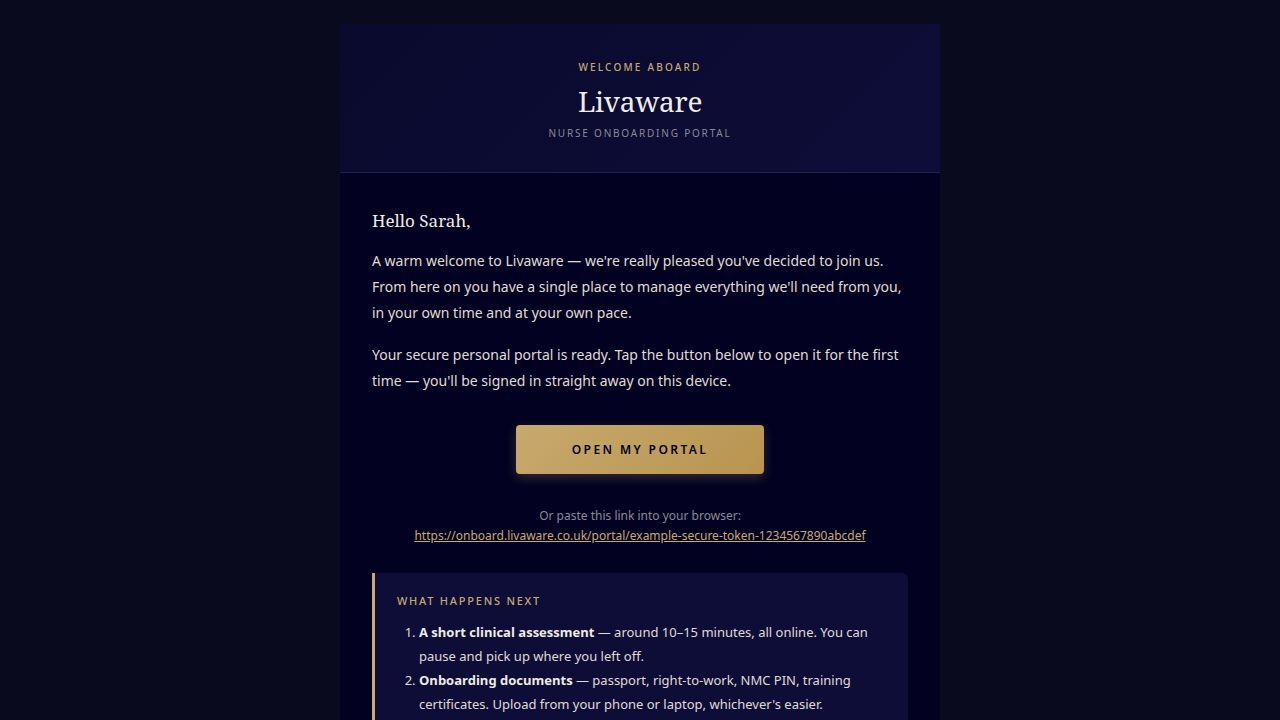
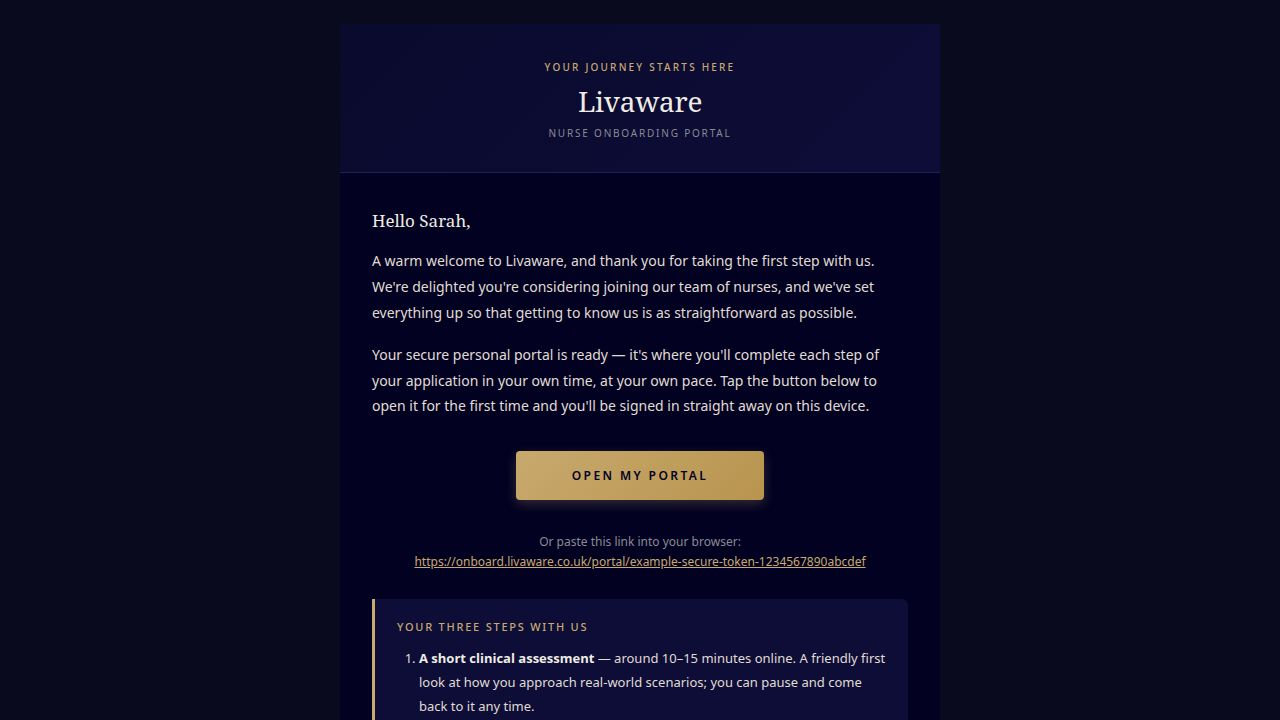
Update welcome email to invite applicants to start their journey
Refactors the applicant welcome email content and subject line to be more inviting and relevant to new applicants. Changes include updating the subject from "Welcome to Livaware — Let's get started" to "Welcome to Livaware — your journey starts here", modifying introductory and descriptive text, and renaming the "What happens next" section to "Your three steps with us" in `applicant-welcome-email.html` and `previews/applicant-welcome-email.html`. Also updates metadata in `.agents/agent_assets_metadata.toml` and the subject constant in `server/outlook.ts`.

Replit-Commit-Author: Agent
Replit-Commit-Session-Id: cdee091a-e8eb-4f16-89b9-73aae7a58ad4
Replit-Commit-Checkpoint-Type: full_checkpoint
Replit-Commit-Event-Id: f6996b04-adf5-4f38-a420-93e1a7978d46
Replit-Commit-Screenshot-Url: https://storage.googleapis.com/screenshot-production-us-central1/d0717b15-65b5-4ce7-8803-99b7f112c688/cdee091a-e8eb-4f16-89b9-73aae7a58ad4/YIiWA8g
Replit-Helium-Checkpoint-Created: true

diff --git a/client/public/applicant-welcome-email.html b/client/public/applicant-welcome-email.html
@@ -1,67 +1,52 @@
 <!DOCTYPE html><html><head><meta charset="utf-8"><title>Welcome to Livaware</title></head><body style="margin:0;padding:24px;background:#0a0a1f;">
       <div style="font-family: 'Be Vietnam Pro', 'Segoe UI', Arial, sans-serif; max-width: 600px; margin: 0 auto; background: #020121;">
-
         <div style="background: linear-gradient(135deg, #0a0a2e 0%, #0d0d38 100%); padding: 36px 32px 32px; text-align: center; border-bottom: 1px solid #1e1e5a;">
-          <p style="color: #C8A96E; font-size: 10px; letter-spacing: 0.22em; text-transform: uppercase; margin: 0 0 8px; font-weight: 500;">Welcome aboard</p>
+          <p style="color: #C8A96E; font-size: 10px; letter-spacing: 0.22em; text-transform: uppercase; margin: 0 0 8px; font-weight: 500;">Your journey starts here</p>
           <h1 style="color: #F0ECE4; font-family: 'Georgia', serif; font-size: 28px; font-weight: 400; margin: 0 0 6px; letter-spacing: -0.01em;">Livaware</h1>
           <p style="color: #8A8A94; font-size: 10px; letter-spacing: 0.18em; text-transform: uppercase; margin: 0;">Nurse Onboarding Portal</p>
         </div>
-
         <div style="padding: 36px 32px 28px;">
           <p style="font-size: 17px; color: #F0ECE4; margin: 0 0 16px; font-family: 'Georgia', serif; font-weight: 400;">Hello Sarah,</p>
-
           <p style="font-size: 14px; color: #E0DCD4; line-height: 1.85; margin: 0 0 16px;">
-            A warm welcome to Livaware — we're really pleased you've decided to join us. From here on you have a single place to manage everything we'll need from you, in your own time and at your own pace.
+            A warm welcome to Livaware, and thank you for taking the first step with us. We're delighted you're considering joining our team of nurses, and we've set everything up so that getting to know us is as straightforward as possible.
           </p>
-
           <p style="font-size: 14px; color: #E0DCD4; line-height: 1.85; margin: 0 0 24px;">
-            Your secure personal portal is ready. Tap the button below to open it for the first time — you'll be signed in straight away on this device.
+            Your secure personal portal is ready &mdash; it's where you'll complete each step of your application in your own time, at your own pace. Tap the button below to open it for the first time and you'll be signed in straight away on this device.
           </p>
-
           <div style="text-align: center; margin: 32px 0;">
             <a href="https://onboard.livaware.co.uk/portal/example-secure-token-1234567890abcdef" style="display: inline-block; background-color: #C8A96E; background-image: linear-gradient(135deg, #C8A96E, #b8944e); color: #020121; text-decoration: none; padding: 16px 56px; border-radius: 4px; font-size: 12px; font-weight: 600; letter-spacing: 0.20em; text-transform: uppercase; box-shadow: 0 4px 12px rgba(200, 169, 110, 0.25);">
               Open My Portal
             </a>
           </div>
-
           <p style="font-size: 12px; color: #8A8A94; line-height: 1.6; word-break: break-all; text-align: center; margin: 0 0 28px;">
             Or paste this link into your browser:<br />
             <a href="https://onboard.livaware.co.uk/portal/example-secure-token-1234567890abcdef" style="color: #C8A96E; text-decoration: underline;">https://onboard.livaware.co.uk/portal/example-secure-token-1234567890abcdef</a>
           </p>
-
           <div style="background: #0d0d38; border-left: 3px solid #C8A96E; padding: 20px 22px; border-radius: 0 6px 6px 0; margin: 0 0 24px;">
-            <p style="font-size: 11px; color: #C8A96E; margin: 0 0 12px; font-weight: 500; letter-spacing: 0.16em; text-transform: uppercase;">What happens next</p>
+            <p style="font-size: 11px; color: #C8A96E; margin: 0 0 12px; font-weight: 500; letter-spacing: 0.16em; text-transform: uppercase;">Your three steps with us</p>
             <ol style="font-size: 13px; color: #E0DCD4; line-height: 1.85; margin: 0; padding-left: 22px;">
-              <li><strong style="color: #F0ECE4;">A short clinical assessment</strong> — around 10–15 minutes, all online. You can pause and pick up where you left off.</li>
-              <li><strong style="color: #F0ECE4;">Onboarding documents</strong> — passport, right-to-work, NMC PIN, training certificates. Upload from your phone or laptop, whichever's easier.</li>
-              <li><strong style="color: #F0ECE4;">Skills Arcade</strong> — short interactive scenarios so you can show us how you think on the floor.</li>
+              <li><strong style="color: #F0ECE4;">A short clinical assessment</strong> &mdash; around 10&ndash;15 minutes online. A friendly first look at how you approach real-world scenarios; you can pause and come back to it any time.</li>
+              <li><strong style="color: #F0ECE4;">Share your documents</strong> &mdash; passport, right-to-work, NMC PIN and any training certificates. Upload from your phone or laptop, whichever's easier.</li>
+              <li><strong style="color: #F0ECE4;">Skills Arcade</strong> &mdash; short interactive scenarios so you can show us how you think on the floor, and we get a sense of where you'll shine.</li>
             </ol>
           </div>
-
           <div style="background: rgba(200, 169, 110, 0.06); border: 1px solid rgba(200, 169, 110, 0.15); padding: 16px 20px; border-radius: 6px; margin: 0 0 24px;">
             <p style="font-size: 12px; color: #C8A96E; margin: 0 0 6px; font-weight: 500; letter-spacing: 0.14em; text-transform: uppercase;">Good to know</p>
             <p style="font-size: 13px; color: #E0DCD4; line-height: 1.7; margin: 0;">
-              This link is personal to you — please keep it private. After this first sign-in, you'll come back any time using your email address and a 6-digit code we send you, so you can pick up from any device. For reference, this initial invite link expires on <strong style="color: #C8A96E;">17 June 2026</strong>.
+              This link is personal to you &mdash; please keep it private. After this first sign-in, you'll come back any time using your email address and a 6-digit code we send you, so you can pick up from any device. For reference, this initial invite link expires on <strong style="color: #C8A96E;">17 June 2026</strong>.
             </p>
           </div>
-
           <p style="font-size: 13px; color: #B0AAA0; line-height: 1.7; margin: 0 0 8px;">
             If anything's unclear or you hit a snag along the way, just reply to this email and a real person on our onboarding team will get back to you.
           </p>
-
           <p style="font-size: 14px; color: #E0DCD4; margin-top: 28px; line-height: 1.7;">
-            Looking forward to working with you,<br />
+            Looking forward to getting to know you,<br />
             <strong style="color: #F0ECE4;">The Livaware Onboarding Team</strong>
           </p>
         </div>
-
         <div style="background: #0a0a2e; padding: 18px 32px; text-align: center; border-top: 1px solid #1e1e5a;">
-          <p style="font-size: 11px; color: #8A8A94; margin: 0;">
-            Livaware Ltd — Secure Nurse Onboarding &middot; CQC Regulation 19 / Schedule 3 Compliant
-          </p>
-          <p style="font-size: 11px; color: #8A8A94; margin: 4px 0 0;">
-            Replies to this email reach our onboarding team directly.
-          </p>
+          <p style="font-size: 11px; color: #8A8A94; margin: 0;">Livaware Ltd &mdash; Secure Nurse Onboarding &middot; CQC Regulation 19 / Schedule 3 Compliant</p>
+          <p style="font-size: 11px; color: #8A8A94; margin: 4px 0 0;">Replies to this email reach our onboarding team directly.</p>
         </div>
       </div>
   </body></html>

diff --git a/previews/applicant-welcome-email.html b/previews/applicant-welcome-email.html
@@ -1,67 +1,52 @@
 <!DOCTYPE html><html><head><meta charset="utf-8"><title>Welcome to Livaware</title></head><body style="margin:0;padding:24px;background:#0a0a1f;">
       <div style="font-family: 'Be Vietnam Pro', 'Segoe UI', Arial, sans-serif; max-width: 600px; margin: 0 auto; background: #020121;">
-
         <div style="background: linear-gradient(135deg, #0a0a2e 0%, #0d0d38 100%); padding: 36px 32px 32px; text-align: center; border-bottom: 1px solid #1e1e5a;">
-          <p style="color: #C8A96E; font-size: 10px; letter-spacing: 0.22em; text-transform: uppercase; margin: 0 0 8px; font-weight: 500;">Welcome aboard</p>
+          <p style="color: #C8A96E; font-size: 10px; letter-spacing: 0.22em; text-transform: uppercase; margin: 0 0 8px; font-weight: 500;">Your journey starts here</p>
           <h1 style="color: #F0ECE4; font-family: 'Georgia', serif; font-size: 28px; font-weight: 400; margin: 0 0 6px; letter-spacing: -0.01em;">Livaware</h1>
           <p style="color: #8A8A94; font-size: 10px; letter-spacing: 0.18em; text-transform: uppercase; margin: 0;">Nurse Onboarding Portal</p>
         </div>
-
         <div style="padding: 36px 32px 28px;">
           <p style="font-size: 17px; color: #F0ECE4; margin: 0 0 16px; font-family: 'Georgia', serif; font-weight: 400;">Hello Sarah,</p>
-
           <p style="font-size: 14px; color: #E0DCD4; line-height: 1.85; margin: 0 0 16px;">
-            A warm welcome to Livaware — we're really pleased you've decided to join us. From here on you have a single place to manage everything we'll need from you, in your own time and at your own pace.
+            A warm welcome to Livaware, and thank you for taking the first step with us. We're delighted you're considering joining our team of nurses, and we've set everything up so that getting to know us is as straightforward as possible.
           </p>
-
           <p style="font-size: 14px; color: #E0DCD4; line-height: 1.85; margin: 0 0 24px;">
-            Your secure personal portal is ready. Tap the button below to open it for the first time — you'll be signed in straight away on this device.
+            Your secure personal portal is ready &mdash; it's where you'll complete each step of your application in your own time, at your own pace. Tap the button below to open it for the first time and you'll be signed in straight away on this device.
           </p>
-
           <div style="text-align: center; margin: 32px 0;">
             <a href="https://onboard.livaware.co.uk/portal/example-secure-token-1234567890abcdef" style="display: inline-block; background-color: #C8A96E; background-image: linear-gradient(135deg, #C8A96E, #b8944e); color: #020121; text-decoration: none; padding: 16px 56px; border-radius: 4px; font-size: 12px; font-weight: 600; letter-spacing: 0.20em; text-transform: uppercase; box-shadow: 0 4px 12px rgba(200, 169, 110, 0.25);">
               Open My Portal
             </a>
           </div>
-
           <p style="font-size: 12px; color: #8A8A94; line-height: 1.6; word-break: break-all; text-align: center; margin: 0 0 28px;">
             Or paste this link into your browser:<br />
             <a href="https://onboard.livaware.co.uk/portal/example-secure-token-1234567890abcdef" style="color: #C8A96E; text-decoration: underline;">https://onboard.livaware.co.uk/portal/example-secure-token-1234567890abcdef</a>
           </p>
-
           <div style="background: #0d0d38; border-left: 3px solid #C8A96E; padding: 20px 22px; border-radius: 0 6px 6px 0; margin: 0 0 24px;">
-            <p style="font-size: 11px; color: #C8A96E; margin: 0 0 12px; font-weight: 500; letter-spacing: 0.16em; text-transform: uppercase;">What happens next</p>
+            <p style="font-size: 11px; color: #C8A96E; margin: 0 0 12px; font-weight: 500; letter-spacing: 0.16em; text-transform: uppercase;">Your three steps with us</p>
             <ol style="font-size: 13px; color: #E0DCD4; line-height: 1.85; margin: 0; padding-left: 22px;">
-              <li><strong style="color: #F0ECE4;">A short clinical assessment</strong> — around 10–15 minutes, all online. You can pause and pick up where you left off.</li>
-              <li><strong style="color: #F0ECE4;">Onboarding documents</strong> — passport, right-to-work, NMC PIN, training certificates. Upload from your phone or laptop, whichever's easier.</li>
-              <li><strong style="color: #F0ECE4;">Skills Arcade</strong> — short interactive scenarios so you can show us how you think on the floor.</li>
+              <li><strong style="color: #F0ECE4;">A short clinical assessment</strong> &mdash; around 10&ndash;15 minutes online. A friendly first look at how you approach real-world scenarios; you can pause and come back to it any time.</li>
+              <li><strong style="color: #F0ECE4;">Share your documents</strong> &mdash; passport, right-to-work, NMC PIN and any training certificates. Upload from your phone or laptop, whichever's easier.</li>
+              <li><strong style="color: #F0ECE4;">Skills Arcade</strong> &mdash; short interactive scenarios so you can show us how you think on the floor, and we get a sense of where you'll shine.</li>
             </ol>
           </div>
-
           <div style="background: rgba(200, 169, 110, 0.06); border: 1px solid rgba(200, 169, 110, 0.15); padding: 16px 20px; border-radius: 6px; margin: 0 0 24px;">
             <p style="font-size: 12px; color: #C8A96E; margin: 0 0 6px; font-weight: 500; letter-spacing: 0.14em; text-transform: uppercase;">Good to know</p>
             <p style="font-size: 13px; color: #E0DCD4; line-height: 1.7; margin: 0;">
-              This link is personal to you — please keep it private. After this first sign-in, you'll come back any time using your email address and a 6-digit code we send you, so you can pick up from any device. For reference, this initial invite link expires on <strong style="color: #C8A96E;">17 June 2026</strong>.
+              This link is personal to you &mdash; please keep it private. After this first sign-in, you'll come back any time using your email address and a 6-digit code we send you, so you can pick up from any device. For reference, this initial invite link expires on <strong style="color: #C8A96E;">17 June 2026</strong>.
             </p>
           </div>
-
           <p style="font-size: 13px; color: #B0AAA0; line-height: 1.7; margin: 0 0 8px;">
             If anything's unclear or you hit a snag along the way, just reply to this email and a real person on our onboarding team will get back to you.
           </p>
-
           <p style="font-size: 14px; color: #E0DCD4; margin-top: 28px; line-height: 1.7;">
-            Looking forward to working with you,<br />
+            Looking forward to getting to know you,<br />
             <strong style="color: #F0ECE4;">The Livaware Onboarding Team</strong>
           </p>
         </div>
-
         <div style="background: #0a0a2e; padding: 18px 32px; text-align: center; border-top: 1px solid #1e1e5a;">
-          <p style="font-size: 11px; color: #8A8A94; margin: 0;">
-            Livaware Ltd — Secure Nurse Onboarding &middot; CQC Regulation 19 / Schedule 3 Compliant
-          </p>
-          <p style="font-size: 11px; color: #8A8A94; margin: 4px 0 0;">
-            Replies to this email reach our onboarding team directly.
-          </p>
+          <p style="font-size: 11px; color: #8A8A94; margin: 0;">Livaware Ltd &mdash; Secure Nurse Onboarding &middot; CQC Regulation 19 / Schedule 3 Compliant</p>
+          <p style="font-size: 11px; color: #8A8A94; margin: 4px 0 0;">Replies to this email reach our onboarding team directly.</p>
         </div>
       </div>
   </body></html>

diff --git a/server/outlook.ts b/server/outlook.ts
@@ -153,7 +153,7 @@ export async function sendPortalInviteEmail(
 // and more on-brand than the generic portal-invite email because this
 // is the candidate's first contact with Livaware — should set the tone
 // for the rest of the journey.
-const APPLICANT_WELCOME_SUBJECT = "Welcome to Livaware — Let's get started";
+const APPLICANT_WELCOME_SUBJECT = "Welcome to Livaware — your journey starts here";
 
 export async function sendApplicantWelcomeEmail(
   recipientEmail: string,
@@ -176,7 +176,7 @@ export async function sendApplicantWelcomeEmail(
     <div style="font-family: 'Be Vietnam Pro', 'Segoe UI', Arial, sans-serif; max-width: 600px; margin: 0 auto; background: #020121;">
 
       <div style="background: linear-gradient(135deg, #0a0a2e 0%, #0d0d38 100%); padding: 36px 32px 32px; text-align: center; border-bottom: 1px solid #1e1e5a;">
-        <p style="color: #C8A96E; font-size: 10px; letter-spacing: 0.22em; text-transform: uppercase; margin: 0 0 8px; font-weight: 500;">Welcome aboard</p>
+        <p style="color: #C8A96E; font-size: 10px; letter-spacing: 0.22em; text-transform: uppercase; margin: 0 0 8px; font-weight: 500;">Your journey starts here</p>
         <h1 style="color: #F0ECE4; font-family: 'Georgia', serif; font-size: 28px; font-weight: 400; margin: 0 0 6px; letter-spacing: -0.01em;">Livaware</h1>
         <p style="color: #8A8A94; font-size: 10px; letter-spacing: 0.18em; text-transform: uppercase; margin: 0;">Nurse Onboarding Portal</p>
       </div>
@@ -185,11 +185,11 @@ export async function sendApplicantWelcomeEmail(
         <p style="font-size: 17px; color: #F0ECE4; margin: 0 0 16px; font-family: 'Georgia', serif; font-weight: 400;">Hello ${firstName},</p>
 
         <p style="font-size: 14px; color: #E0DCD4; line-height: 1.85; margin: 0 0 16px;">
-          A warm welcome to Livaware — we're really pleased you've decided to join us. From here on you have a single place to manage everything we'll need from you, in your own time and at your own pace.
+          A warm welcome to Livaware, and thank you for taking the first step with us. We're delighted you're considering joining our team of nurses, and we've set everything up so that getting to know us is as straightforward as possible.
         </p>
 
         <p style="font-size: 14px; color: #E0DCD4; line-height: 1.85; margin: 0 0 24px;">
-          Your secure personal portal is ready. Tap the button below to open it for the first time — you'll be signed in straight away on this device.
+          Your secure personal portal is ready — it's where you'll complete each step of your application in your own time, at your own pace. Tap the button below to open it for the first time and you'll be signed in straight away on this device.
         </p>
 
         <div style="text-align: center; margin: 32px 0;">
@@ -204,11 +204,11 @@ export async function sendApplicantWelcomeEmail(
         </p>
 
         <div style="background: #0d0d38; border-left: 3px solid #C8A96E; padding: 20px 22px; border-radius: 0 6px 6px 0; margin: 0 0 24px;">
-          <p style="font-size: 11px; color: #C8A96E; margin: 0 0 12px; font-weight: 500; letter-spacing: 0.16em; text-transform: uppercase;">What happens next</p>
+          <p style="font-size: 11px; color: #C8A96E; margin: 0 0 12px; font-weight: 500; letter-spacing: 0.16em; text-transform: uppercase;">Your three steps with us</p>
           <ol style="font-size: 13px; color: #E0DCD4; line-height: 1.85; margin: 0; padding-left: 22px;">
-            <li><strong style="color: #F0ECE4;">A short clinical assessment</strong> — around 10–15 minutes, all online. You can pause and pick up where you left off.</li>
-            <li><strong style="color: #F0ECE4;">Onboarding documents</strong> — passport, right-to-work, NMC PIN, training certificates. Upload from your phone or laptop, whichever's easier.</li>
-            <li><strong style="color: #F0ECE4;">Skills Arcade</strong> — short interactive scenarios so you can show us how you think on the floor.</li>
+            <li><strong style="color: #F0ECE4;">A short clinical assessment</strong> — around 10–15 minutes online. A friendly first look at how you approach real-world scenarios; you can pause and come back to it any time.</li>
+            <li><strong style="color: #F0ECE4;">Share your documents</strong> — passport, right-to-work, NMC PIN and any training certificates. Upload from your phone or laptop, whichever's easier.</li>
+            <li><strong style="color: #F0ECE4;">Skills Arcade</strong> — short interactive scenarios so you can show us how you think on the floor, and we get a sense of where you'll shine.</li>
           </ol>
         </div>
 
@@ -224,7 +224,7 @@ export async function sendApplicantWelcomeEmail(
         </p>
 
         <p style="font-size: 14px; color: #E0DCD4; margin-top: 28px; line-height: 1.7;">
-          Looking forward to working with you,<br />
+          Looking forward to getting to know you,<br />
           <strong style="color: #F0ECE4;">The Livaware Onboarding Team</strong>
         </p>
       </div>
